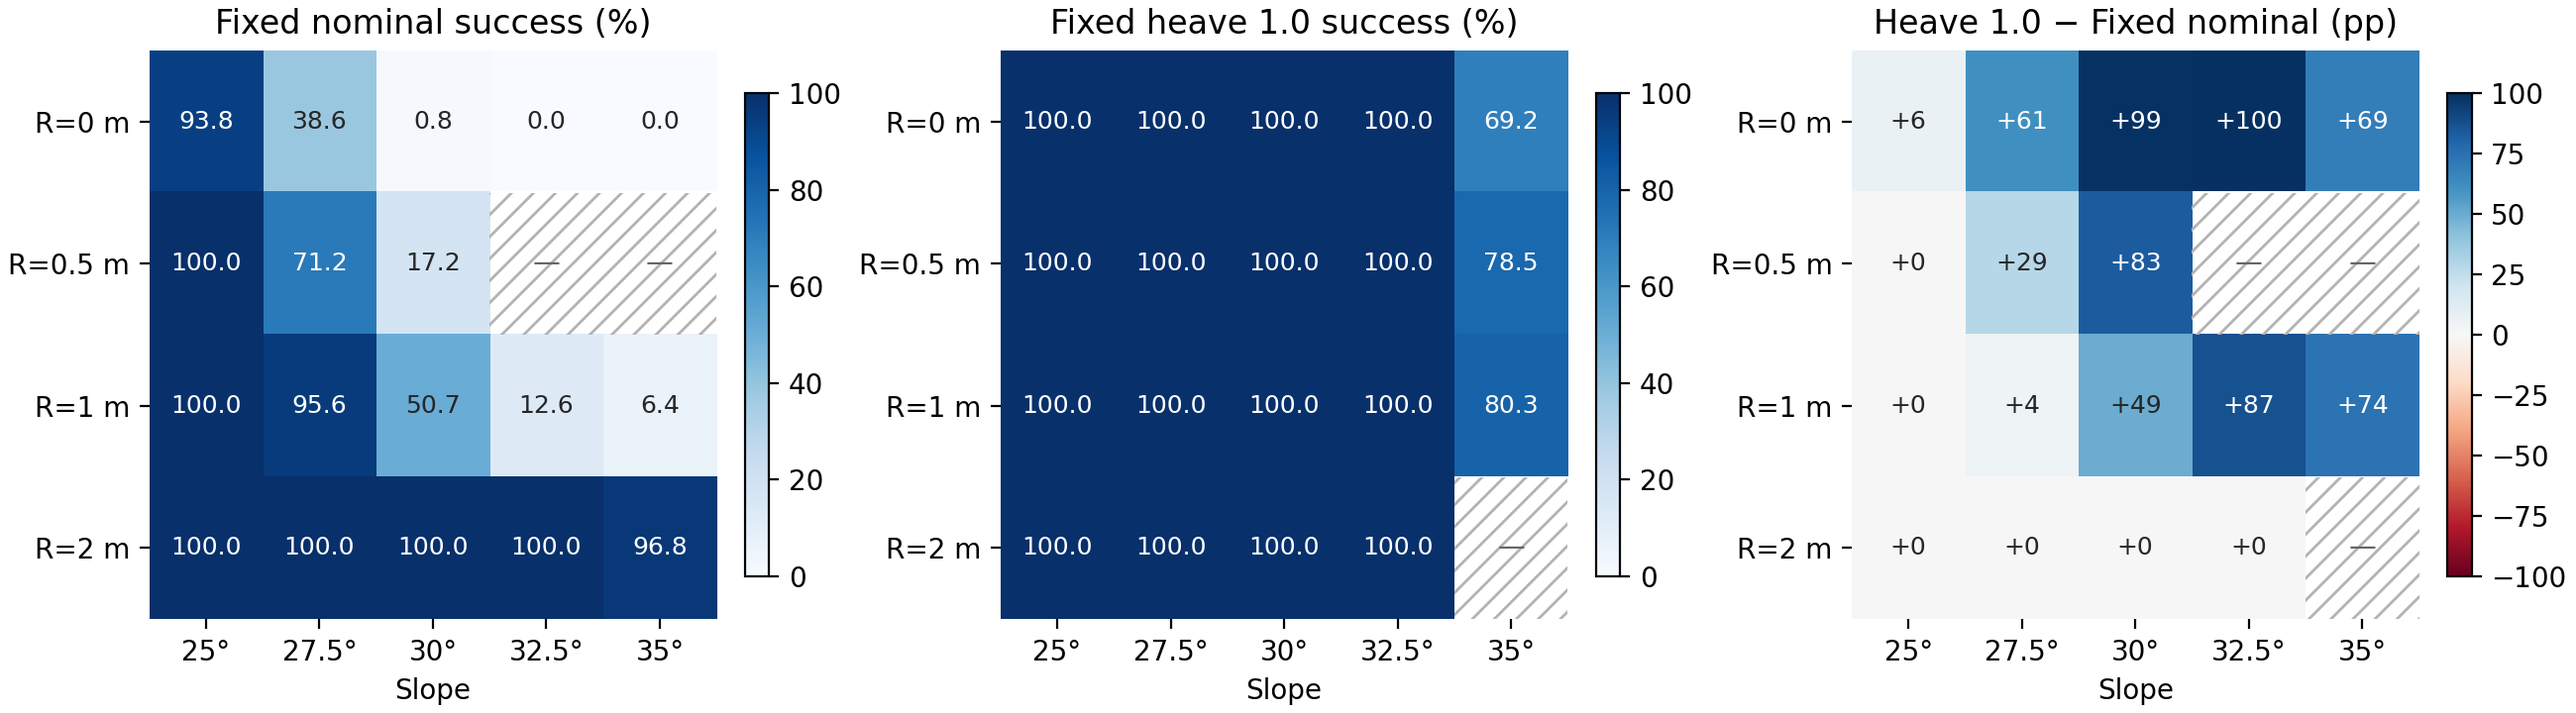
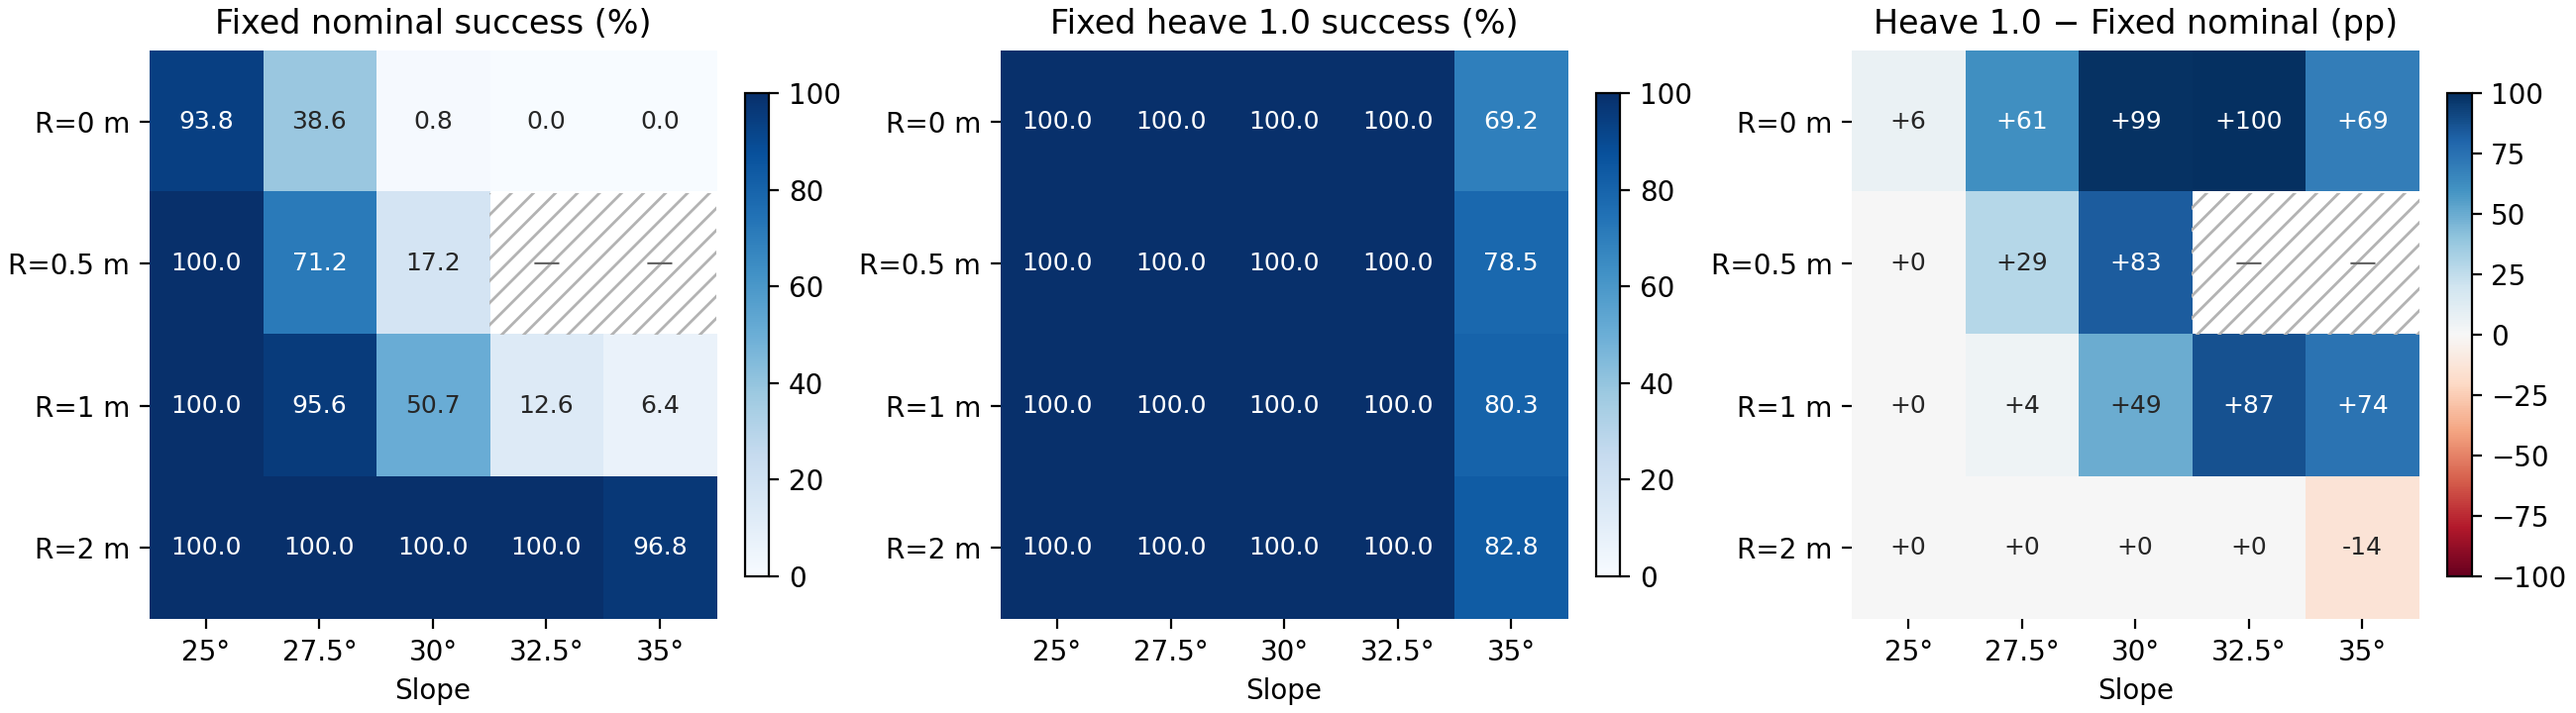
crest note: heave R2 35 deg result (-14 pp)
Claude-Session: https://claude.ai/code/session_01QmcofTmHzCaGBM6kLiAEu1

Changed region(s): [[0.8723, 0.6417, 0.9658, 0.8861], [0.5608, 0.6417, 0.6231, 0.8861]]

diff --git a/crest-geometry.html b/crest-geometry.html
@@ -130,10 +130,10 @@
   </ul>
 
   <h2><span class="no">04</span>시뮬레이션 결과 (1차, 2026-11-14)</h2>
-  <p>고정 기본 자세와 최적 고정 자세(heave 1.0)를 크레스트 반경 4단계 × 경사 5단계에서 조건당 832 에피소드씩 평가했습니다. 빗금 칸은 아직 측정 중입니다.</p>
+  <p>고정 기본 자세와 최적 고정 자세(heave 1.0)를 크레스트 반경 4단계 × 경사 5단계에서 조건당 832 에피소드씩 평가했습니다. 빗금 칸(R = 0.5 m의 32.5°·35°)은 재측정 중입니다.</p>
   <figure class="fig">
     <img src="assets/crest-heatmap-measured.png" alt="경사 x 크레스트 반경 성공률 히트맵">
-    <figcaption><b>Fig. C3</b> 왼쪽: 고정 기본 자세 성공률. 가운데: 최적 고정 자세(heave 1.0) 성공률. 오른쪽: 둘의 차이(%p). 진한 칸이 "자세를 바꿔야 오를 수 있는" 조합입니다.</figcaption>
+    <figcaption><b>Fig. C3</b> 왼쪽: 고정 기본 자세 성공률. 가운데: 최적 고정 자세(heave 1.0) 성공률. 오른쪽: 둘의 차이(%p). 파란 칸은 "자세를 바꿔야 오를 수 있는" 조합, 주황 칸은 자세를 높여서 오히려 나빠진 조합입니다.</figcaption>
   </figure>
   <div class="table-wrap"><table>
     <tr><th>고정 기본 자세</th><th>25°</th><th>27.5°</th><th>30°</th><th>32.5°</th><th>35°</th></tr>
@@ -145,7 +145,8 @@
   <ul>
     <li><strong>방향은 예측대로입니다.</strong> 같은 30°에서 날카로운 크레스트는 0.8 %, R = 2 m 크레스트는 100 %입니다. 경사각만으로는 등판 가능 여부를 정할 수 없습니다.</li>
     <li><strong>능동 자세가 필요한 영역은 대각선 띠입니다.</strong> 차이 패널에서 +50 %p 이상인 칸은 R = 0에서 27.5~35°, R = 1 m에서 30~35°이고, R = 2 m에서는 사라집니다. 크레스트가 둥글수록 띠가 가파른 쪽으로 밀리다가 R/L ≈ 1.34에서 없어집니다.</li>
-    <li><strong>높이만 올려서는 35°가 부족합니다.</strong> heave 1.0은 32.5°까지 모든 R에서 100 %이지만 35°에서는 69.2 % (R = 0), 78.5 % (0.5 m), 80.3 % (1 m)에서 멈춥니다. 학습 정책(최고 90.9 %)이 나아지는 구간이 여기입니다.</li>
+    <li><strong>높이만 올려서는 35°가 부족합니다.</strong> heave 1.0은 32.5°까지 모든 R에서 100 %이지만 35°에서는 69.2 % (R = 0), 78.5 % (0.5 m), 80.3 % (1 m), 82.8 % (2 m)에서 멈춥니다. R에 거의 무관하므로 이 실패는 크레스트가 아니라 높은 자세 자체에서 옵니다. 학습 정책(최고 90.9 %)이 나아지는 구간이 여기입니다.</li>
+    <li><strong>필요 없는 곳에서 높이면 손해입니다.</strong> R = 2 m, 35°에서 heave 1.0은 82.8 %로 고정 기본 자세(96.8 %)보다 14 %p 낮습니다(신뢰구간 ±3.4 %p의 네 배). 무게중심이 올라가 앞바퀴 하중이 빠지는 쪽으로 해석되며, 바퀴 하중 기록으로 확인합니다. 능동 자세는 "항상 올리기"가 아니라 <strong>배 걸림 영역에서만 쓰고 나머지에서는 내려야</strong> 한다는 근거입니다.</li>
     <li><strong>35° 실패는 마찰만의 문제가 아니었습니다.</strong> 동마찰 0.70의 한계각이 35.0°이지만 R = 2 m 고정 자세가 35°에서 96.8 % 성공했습니다. 실제 마찰 벽은 35°와 정마찰 한계 42.0° 사이에 있으며, R = 2 m 37.5°·40° 평가로 확인합니다.</li>
   </ul>
   <figure class="fig">
